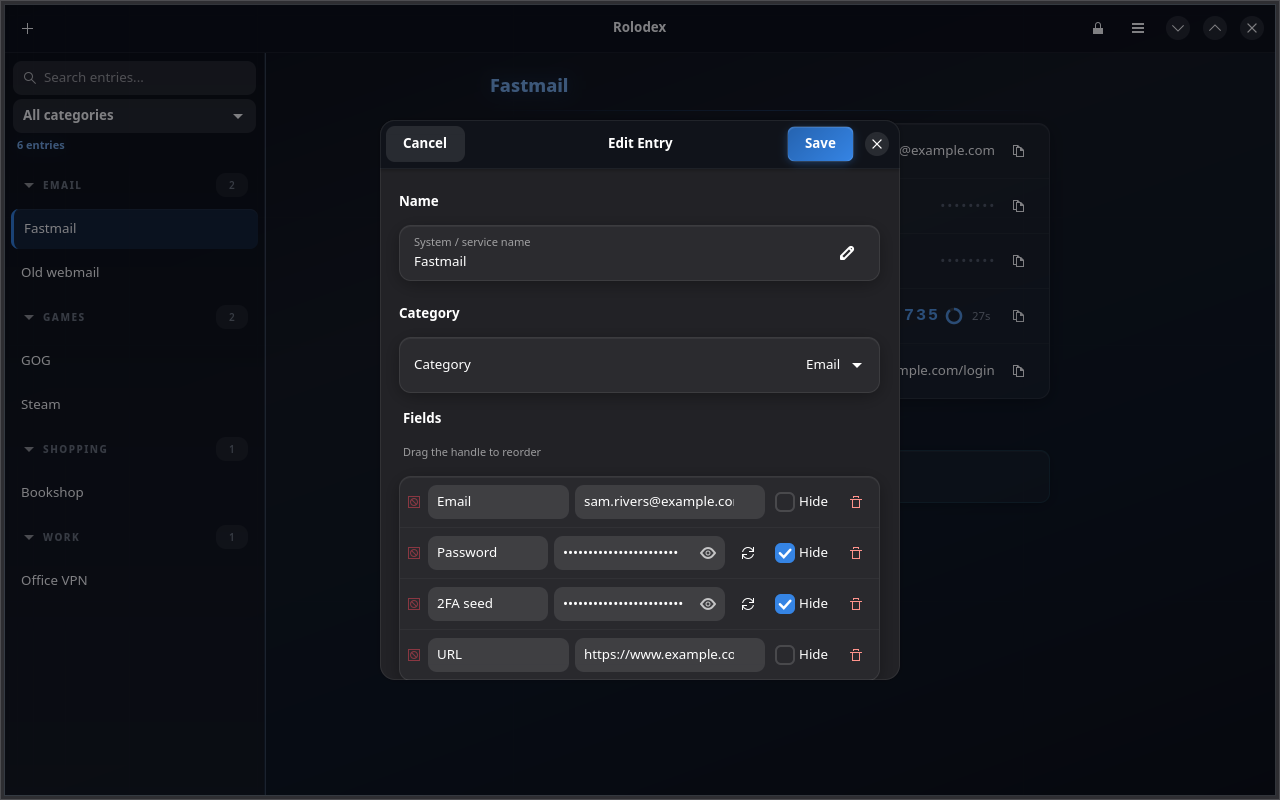
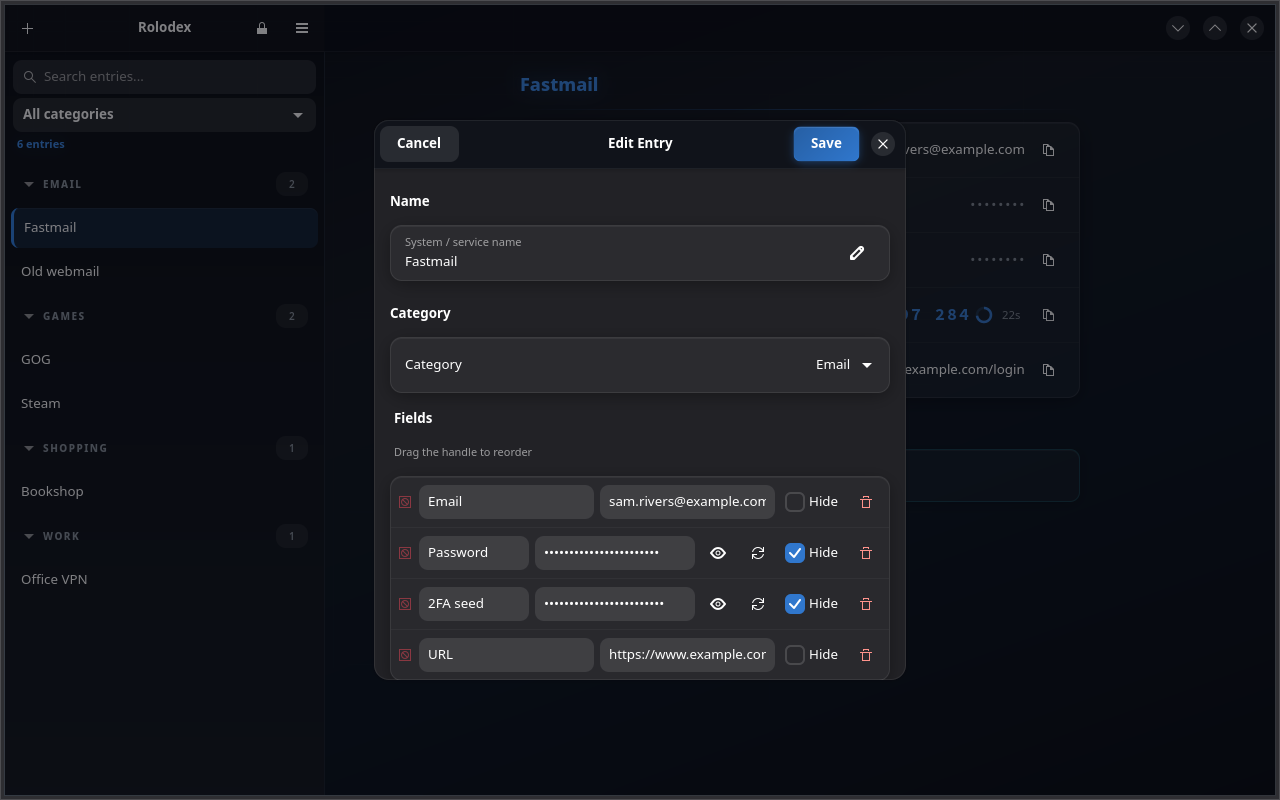
ROLO-0092: retake the website screenshots on the 2.0.0 look
Detail, edit and health again in the dark theme, plus the light and
high-contrast themes, the Preferences window and the phone-width layout.
The screenshot script now says which scenes need a wait before the shot.

diff --git a/scripts/demo-screenshots.py b/scripts/demo-screenshots.py
@@ -12,6 +12,11 @@ narrow and narrow-detail, the list and the entry page of a phone-width window (R
 and select and narrow-select, every entry selected with the bulk bar showing (ROLO-0025).
 Optional second and third arguments pick the theme and the accent (ROLO-0015), e.g.
 `detail light teal`.
+
+`demoreel shot` takes the picture as soon as the main window draws, which is before any scene
+that opens something on a timer has opened it. For those (health, edit, preferences,
+narrow-detail, select, narrow-select) add `-a 'wait 6'`: at two seconds the edit dialog was
+still fading in. The narrow scenes also need a narrow display, `-s 400x800`.
 """
 import os
 import shutil

diff --git a/ROADMAP.md b/ROADMAP.md
@@ -208,7 +208,7 @@ release, which is what proves the in-app updater end to end: it installs from
   Kind: accessibility.
   Source: in-session-2026-09-25 (ROLO-0017).
 
-- 📋 [ROLO-0092] **Send the website refreshed screenshots once 1.7.0 ships.**
+- ✅ [ROLO-0092] **Send the website refreshed screenshots once 1.7.0 ships.**
   Why: the Ants Projects Hub website session (antsprojectshub.co.za)
   holds a logo and three screenshots taken before the themes landed, and
   asked for refreshed ones after 1.7.0.
@@ -222,6 +222,10 @@ release, which is what proves the in-app updater end to end: it installs from
   recorded on the 1.6.0 dark look. Also owed when 1.7.0 ships: a short
   plain-text description of the themes and the Preferences window, plus
   at least one themes screenshot.
+  Done 2026-11-11: seven pictures on the 2.0.0 look in docs/screenshots
+  (detail, edit, health in dark; theme-light, theme-high-contrast,
+  preferences, narrow), sent to the website session with screen-reader
+  text.
   **Layman:** After the new themes are released, retake the pictures on the project website so they show the current look.
   Kind: chore.
   Source: in-session-2026-09-25 (ants-projects-hub-website session).
